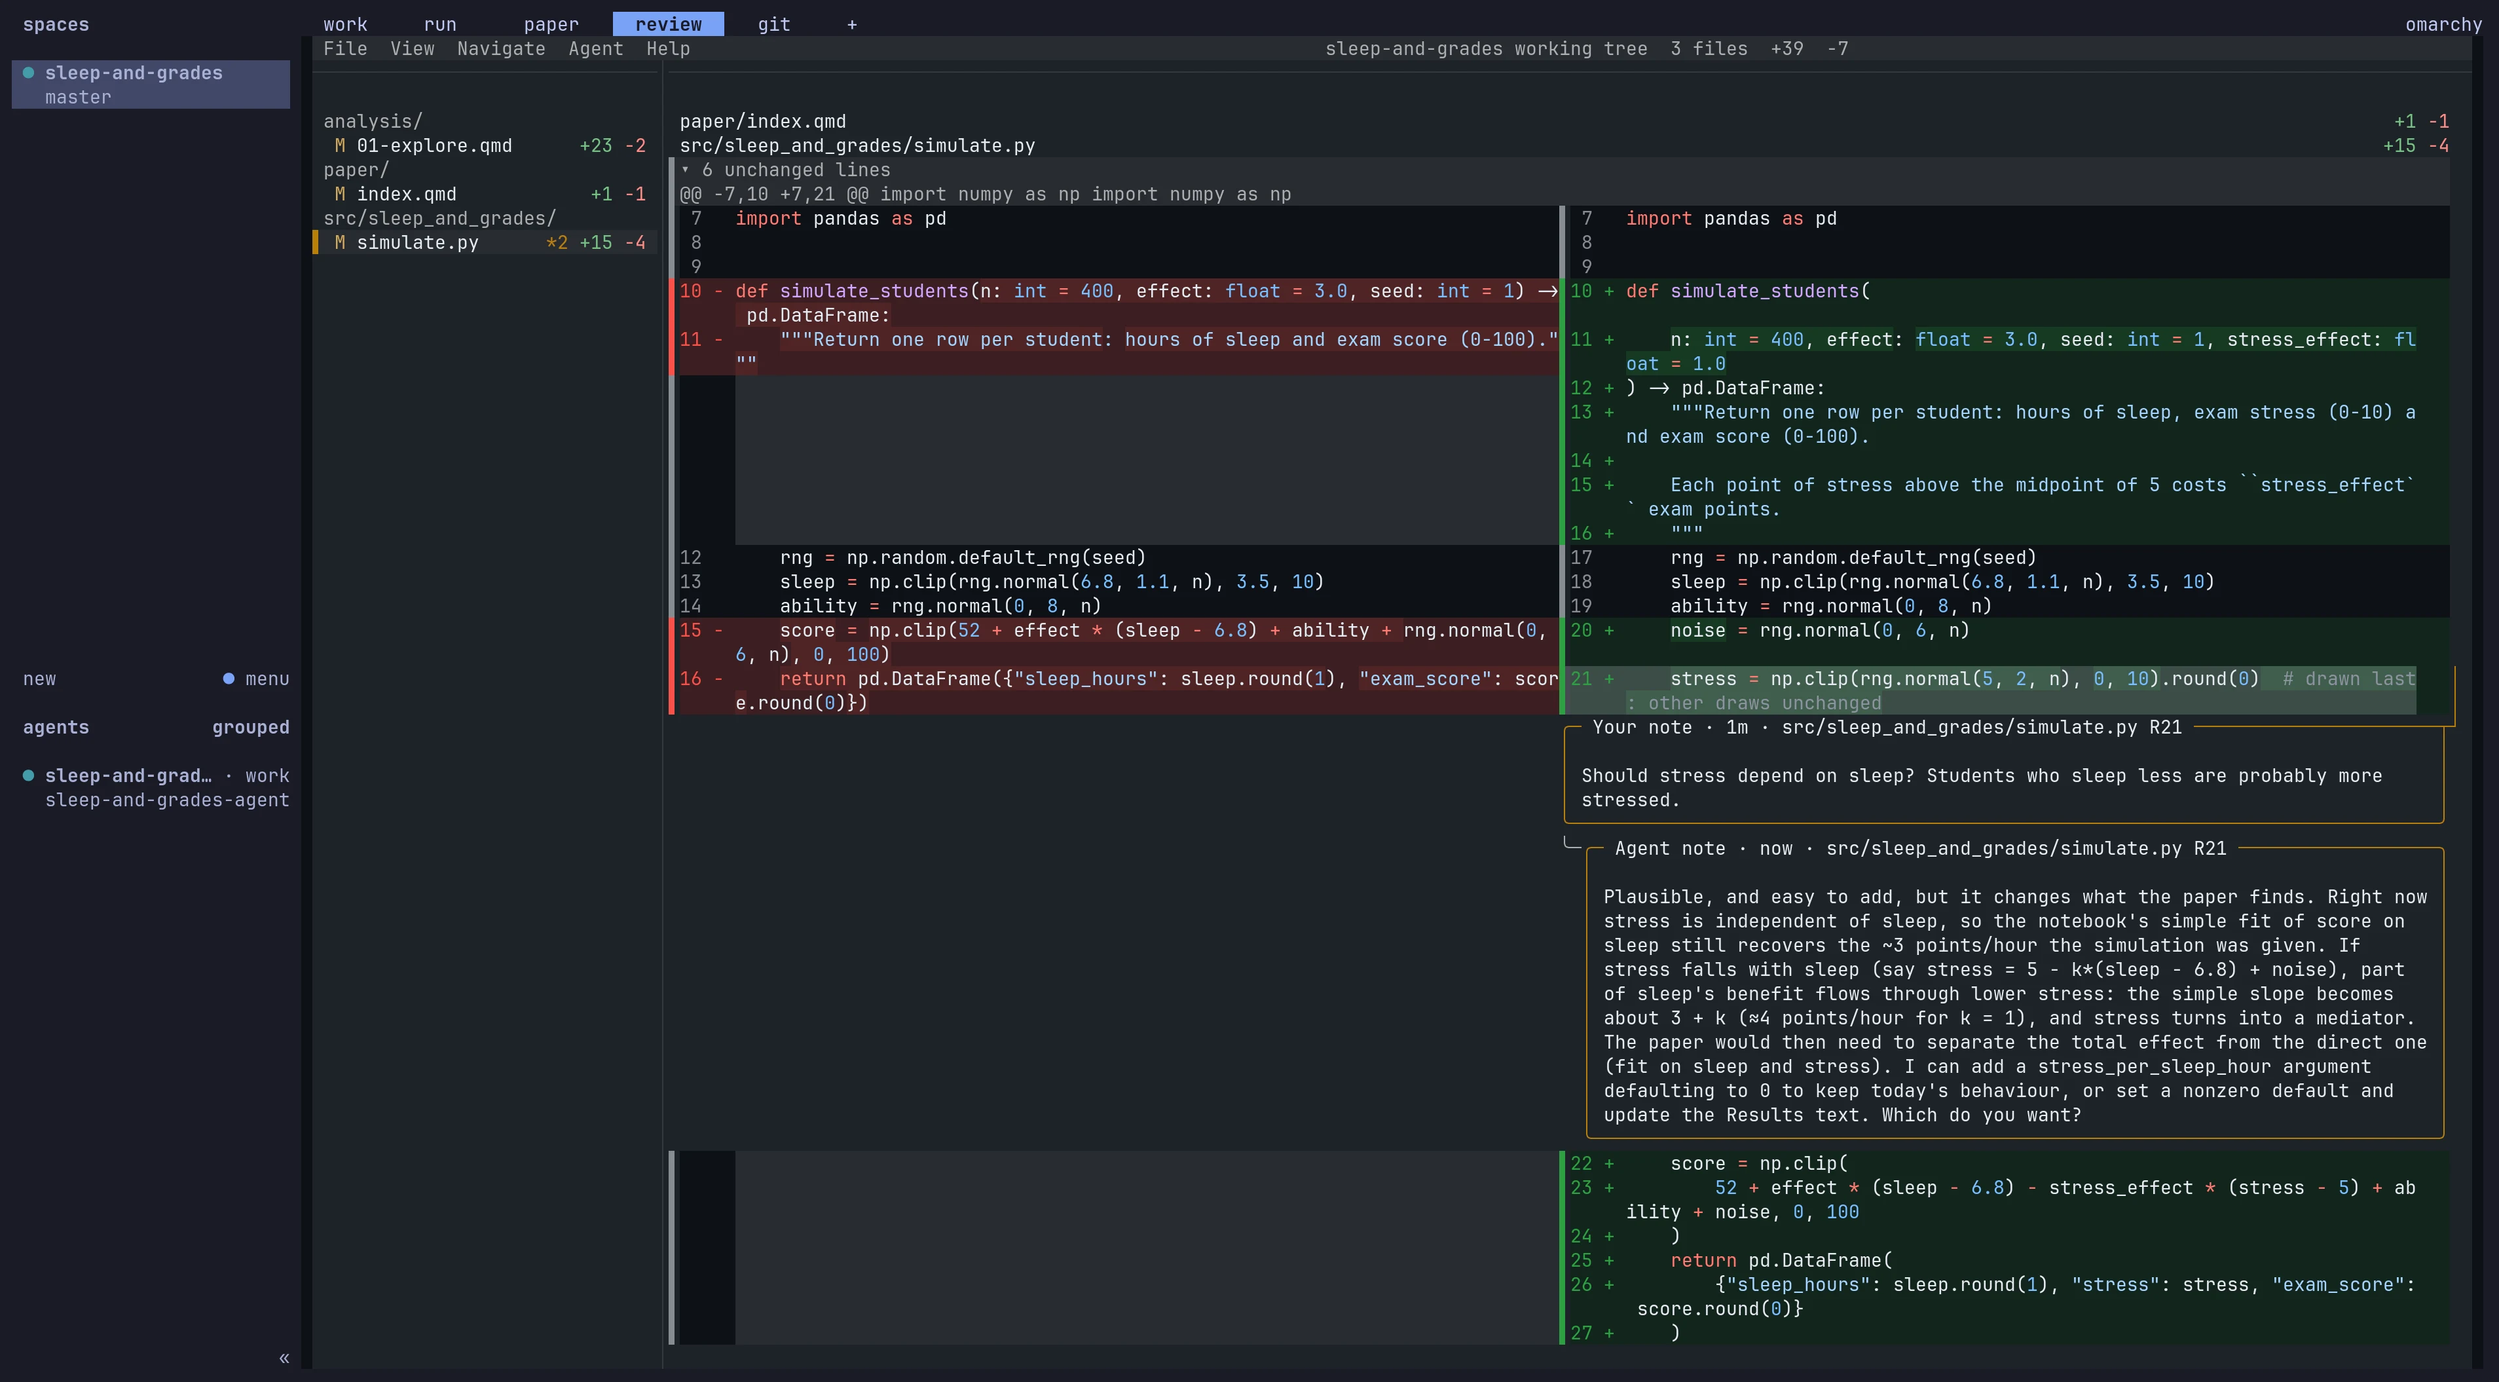
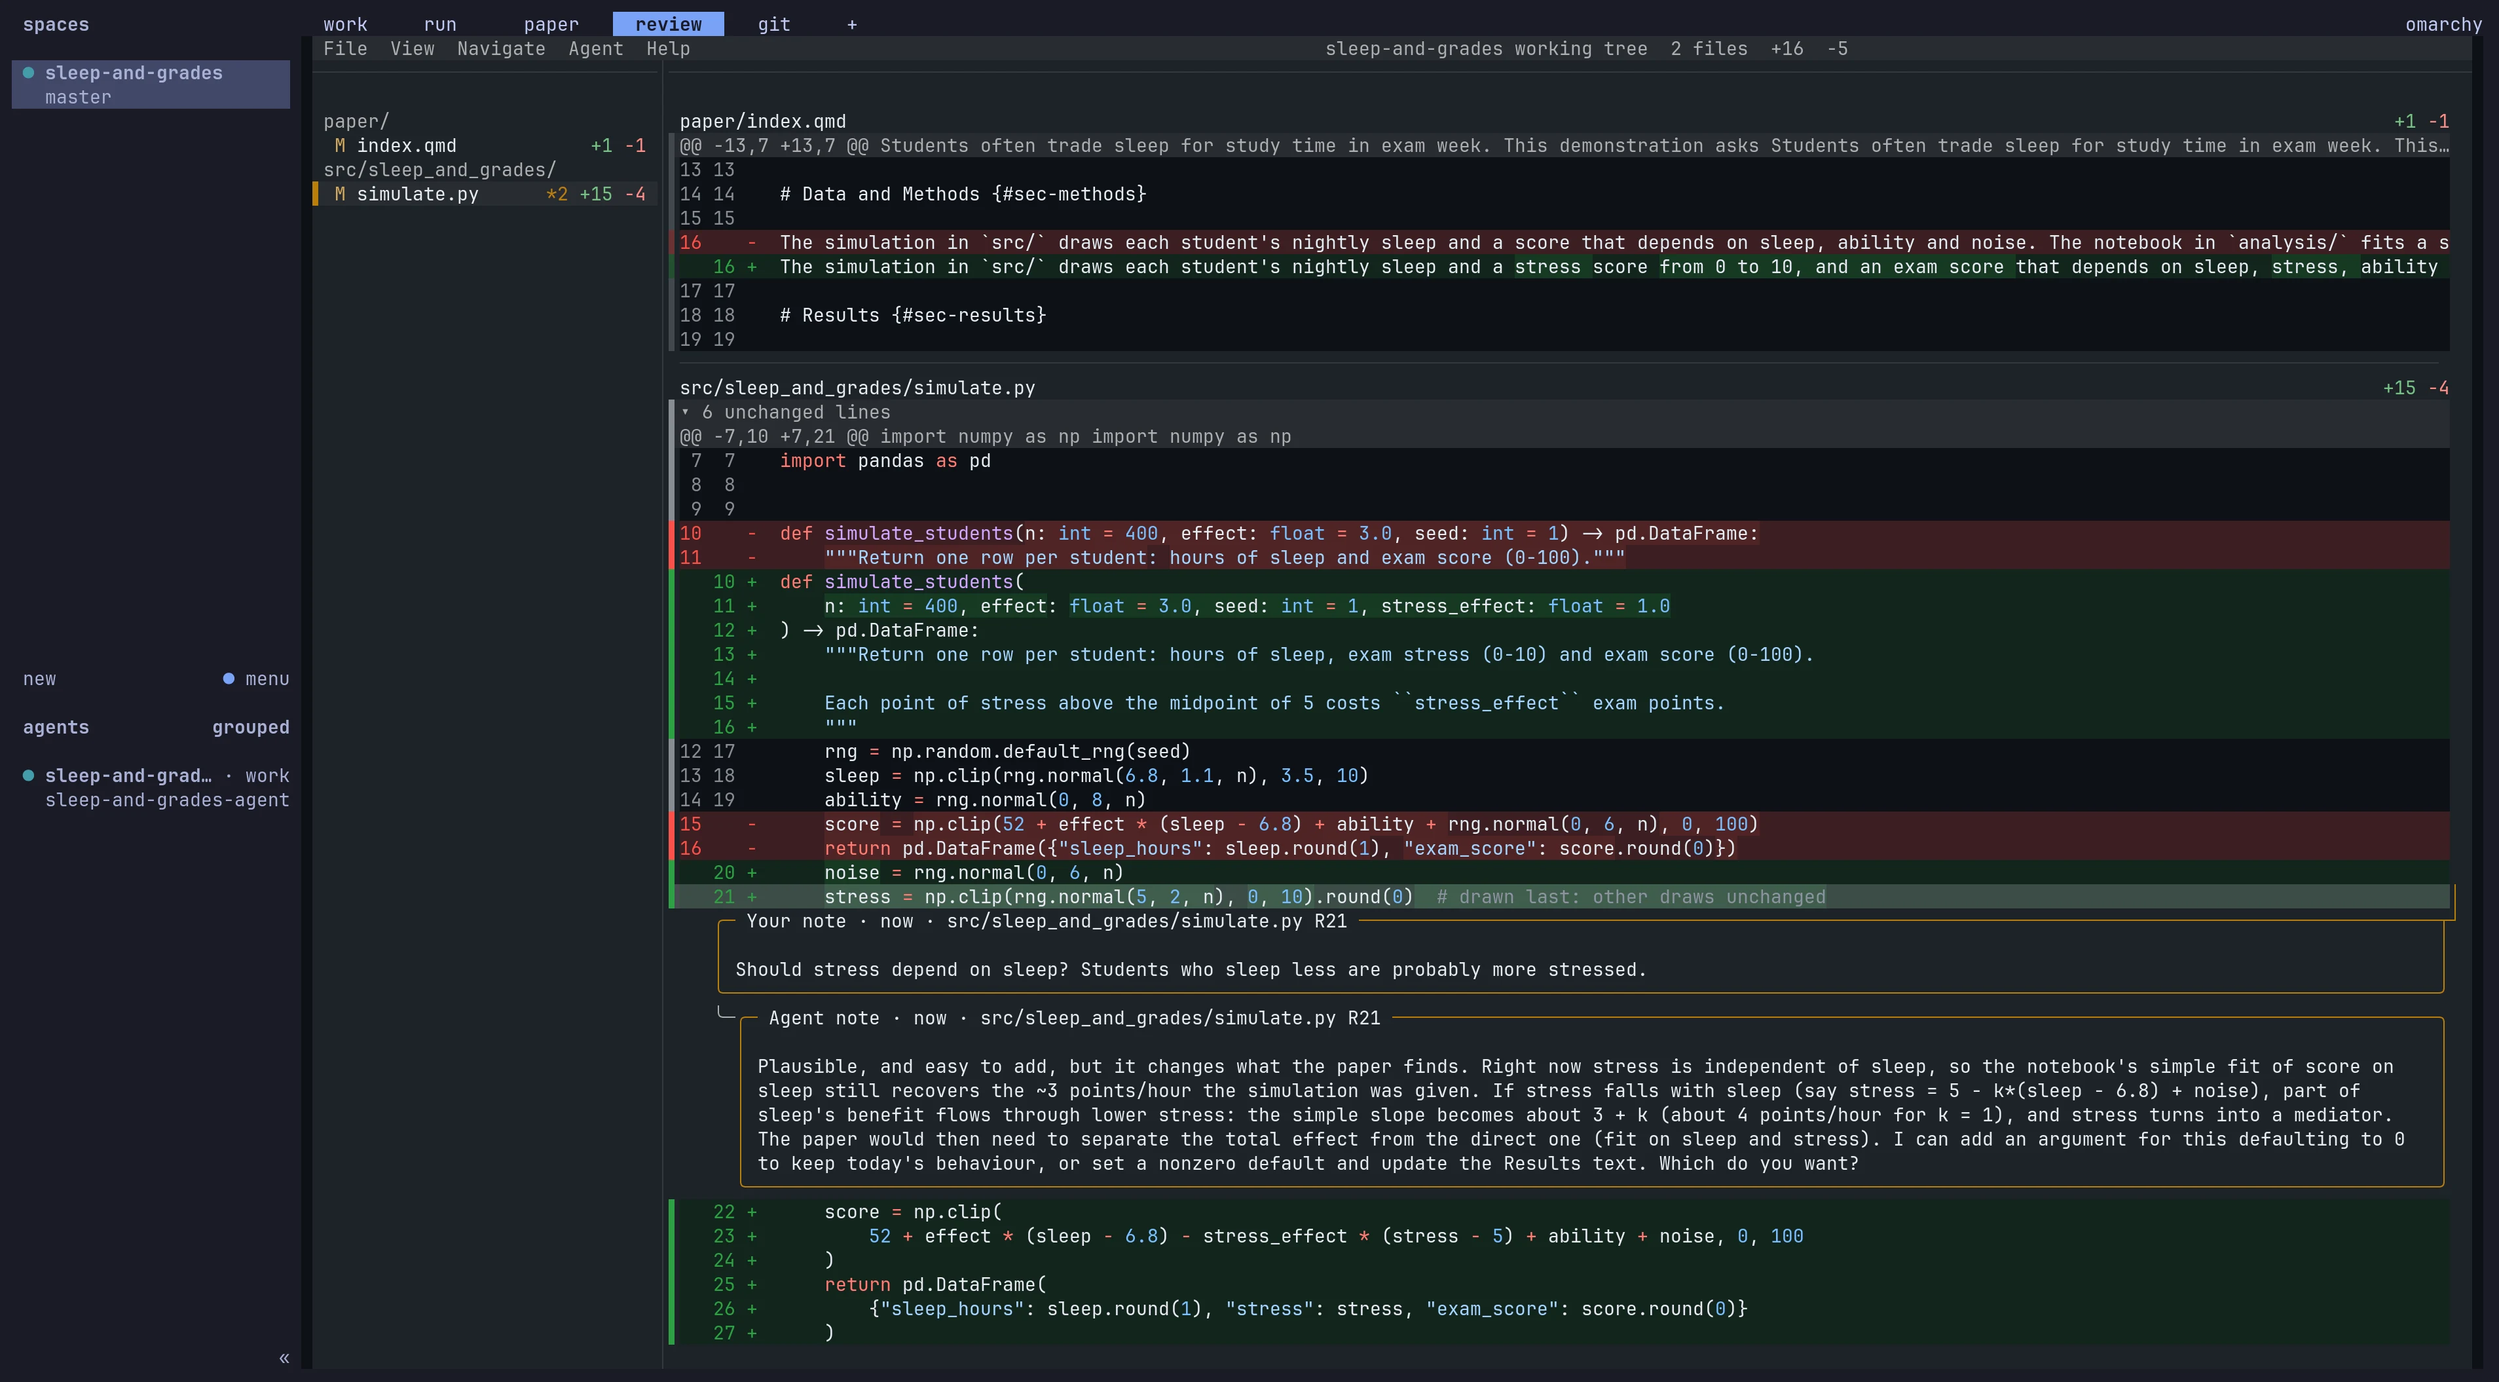
Agentic Researcher guide: fix text that ran together with a cached stylesheet; retake review screenshots without mid-word line breaks

Changed region(s): [[0.2495, 0.0924, 0.9979, 0.955], [0.1247, 0.0924, 0.2183, 0.1848]]

diff --git a/agentic-researcher/index.html b/agentic-researcher/index.html
@@ -9,7 +9,7 @@
 <link rel="preconnect" href="https://fonts.googleapis.com">
 <link rel="preconnect" href="https://fonts.gstatic.com" crossorigin>
 <link href="https://fonts.googleapis.com/css2?family=Baloo+2:wght@400;500;600;700;800&family=Nunito:ital,wght@0,400;0,600;0,700;0,800;1,600&family=IBM+Plex+Mono:wght@400;500;600&display=swap" rel="stylesheet">
-<link rel="stylesheet" href="style.css">
+<link rel="stylesheet" href="style.css?v=2">
 </head>
 <body>
 
@@ -38,8 +38,8 @@
 <p>That is what this setup gives you: the whole project in one place, from the software or survey that produces your data to the paper that reports it, with an AI agent working beside you. You stop copying output from SPSS into Word, and <em>paper_final_v7.docx</em> goes away. You never wonder again which version of the data made Figure&nbsp;3. Every change is recorded, whether you made it or the agent did, and any of them can be undone. It runs on free software on your own computer, and setting it up takes an afternoon.</p>
 
 <div class="needs">
-  <div><span class="needs-h">You’ll need</span>a computer you can give to Linux, a USB stick, an afternoon, and a Claude subscription</div>
-  <div><span class="needs-h">You won’t need</span>to know how to program, or to have used Linux before</div>
+  <div><span class="needs-h">You’ll need:</span> a computer you can give to Linux, a USB stick, an afternoon, and a Claude subscription</div>
+  <div><span class="needs-h">You won’t need:</span> to know how to program, or to have used Linux before</div>
 </div>
 </header>
 
@@ -50,20 +50,20 @@
 
 <nav class="toc" aria-label="Contents">
   <div class="toc-part"><span class="toc-label">Part 1 · Why</span>
-    <a href="#compared"><span class="toc-n">01</span>Compared with SPSS, Stata and Word</a>
-    <a href="#using-it"><span class="toc-n">02</span>What it’s like to use</a>
-    <a href="#why-linux"><span class="toc-n">03</span>Why Linux, now</a>
-    <a href="#why-omarchy"><span class="toc-n">04</span>Why Omarchy</a>
+    <a href="#compared"><span class="toc-n">01</span> Compared with SPSS, Stata and Word</a>
+    <a href="#using-it"><span class="toc-n">02</span> What it’s like to use</a>
+    <a href="#why-linux"><span class="toc-n">03</span> Why Linux, now</a>
+    <a href="#why-omarchy"><span class="toc-n">04</span> Why Omarchy</a>
   </div>
   <div class="toc-part"><span class="toc-label">Part 2 · How</span>
-    <a href="#install-omarchy"><span class="toc-n">05</span>Install Omarchy</a>
-    <a href="#install-setup"><span class="toc-n">06</span>Install the research setup</a>
-    <a href="#first-project"><span class="toc-n">07</span>Your first project</a>
-    <a href="#loop"><span class="toc-n">08</span>The research loop</a>
+    <a href="#install-omarchy"><span class="toc-n">05</span> Install Omarchy</a>
+    <a href="#install-setup"><span class="toc-n">06</span> Install the research setup</a>
+    <a href="#first-project"><span class="toc-n">07</span> Your first project</a>
+    <a href="#loop"><span class="toc-n">08</span> The research loop</a>
   </div>
   <div class="toc-part"><span class="toc-label">Part 3 · Make it yours</span>
-    <a href="#build"><span class="toc-n">09</span>Play, build and share</a>
-    <a href="#cheatsheet"><span class="toc-n">10</span>Cheat sheet and help</a>
+    <a href="#build"><span class="toc-n">09</span> Play, build and share</a>
+    <a href="#cheatsheet"><span class="toc-n">10</span> Cheat sheet and help</a>
   </div>
 </nav>
 
@@ -88,11 +88,11 @@
 
 <div class="map">
   <div class="map-h">If you use… <span>you’ll use…</span></div>
-  <div class="map-row"><span>Word</span><span>a Quarto paper: plain text that becomes a PDF or a Word file</span></div>
-  <div class="map-row"><span>SPSS or Stata</span><span>Python notebooks, written with the agent’s help (R works too)</span></div>
-  <div class="map-row"><span>EndNote or Mendeley</span><span>Zotero, which is free</span></div>
-  <div class="map-row"><span>Track Changes</span><span>the <em>review</em> tab, which shows every change</span></div>
-  <div class="map-row"><span>Dropbox and <em>final_v2</em></span><span>saved versions (Git), backed up to GitHub</span></div>
+  <div class="map-row"><span>Word</span> <span>a Quarto paper: plain text that becomes a PDF or a Word file</span></div>
+  <div class="map-row"><span>SPSS or Stata</span> <span>Python notebooks, written with the agent’s help (R works too)</span></div>
+  <div class="map-row"><span>EndNote or Mendeley</span> <span>Zotero, which is free</span></div>
+  <div class="map-row"><span>Track Changes</span> <span>the <em>review</em> tab, which shows every change</span></div>
+  <div class="map-row"><span>Dropbox and <em>final_v2</em></span> <span>saved versions (Git), backed up to GitHub</span></div>
 </div>
 
 <p>If you already write Stata do-files or SPSS syntax rather than clicking through menus, you’re halfway there: that is the same idea. Your agent can translate those files into Python and check that they give the same results, and Python opens your existing <code>.sav</code> and <code>.dta</code> files directly. Stata and SPSS both have Linux versions, if your field expects a particular procedure.</p>
@@ -278,7 +278,7 @@
 <p>Analysis lives in notebooks in <code>analysis/</code>. A notebook is one file that mixes three things: notes in plain English, the code that does each step, and the results that code produces. You write it in the editor, often by asking the agent (<em>“add a regression of score on sleep and stress”</em>), and you can run one piece at a time while you explore.</p>
 
 <figure class="ann wide" id="shot-notebook">
-  <div class="ann-img"><a href="shots/notebook.webp" target="_blank" rel="noopener"><img src="shots/notebook.webp" alt="The analysis notebook open in the editor, showing Python code that fits a line and saves the figure into the paper folder" loading="lazy"></a>
+  <div class="ann-img"><a href="shots/notebook.webp?v=2" target="_blank" rel="noopener"><img src="shots/notebook.webp?v=2" alt="The analysis notebook open in the editor, showing Python code that fits a line and saves the figure into the paper folder" loading="lazy"></a>
     <span class="pin" style="left:32.6%;top:7%">1</span><span class="pin" style="left:87%;top:44.7%">2</span><span class="pin" style="left:62.5%;top:50.8%">3</span><span class="pin" style="left:87%;top:71.8%">4</span><span class="pin" style="left:95%;top:85%">5</span>
   </div>
   <ol class="ann-key"><li>Notebooks live in <code>analysis/</code>.</li><li>Code: here it runs the project&rsquo;s simulation and saves the data to <code>data/</code>.</li><li>Headings and notes between the code explain the analysis, like a lab notebook.</li><li>This line saves the figure straight into <code>paper/figures/</code>.</li><li>A regression with sleep and stress, in two lines.</li></ol>
@@ -290,7 +290,7 @@
 <p>You get a report like the one below: every result sits directly under the code that produced it, with your notes around it.</p>
 
 <figure class="ann report" id="shot-report">
-  <div class="ann-img"><a href="shots/notebook-report.webp" target="_blank" rel="noopener"><img src="shots/notebook-report.webp" alt="The rendered notebook report: an explanation, the code, a table of means and ranges, a scatter plot of sleep against exam score with a fitted line, and a regression table for sleep and stress" loading="lazy"></a>
+  <div class="ann-img"><a href="shots/notebook-report.webp?v=2" target="_blank" rel="noopener"><img src="shots/notebook-report.webp?v=2" alt="The rendered notebook report: an explanation, the code, a table of means and ranges, a scatter plot of sleep against exam score with a fitted line, and a regression table for sleep and stress" loading="lazy"></a>
     <span class="pin" style="left:92%;top:18%">1</span><span class="pin" style="left:93%;top:34%">2</span><span class="pin" style="left:76%;top:55.6%">3</span><span class="pin" style="left:72%;top:67.8%">4</span><span class="box" style="left:2.5%;top:94.6%;width:95%;height:2.2%"></span><span class="pin" style="left:35.2%;top:91.8%">5</span>
   </div>
   <ol class="ann-key"><li><strong>The code is the record.</strong> It runs the study&rsquo;s simulation and saves the data. Nothing happens off the page, so nobody has to remember which menu options were ticked.</li><li><strong>Results appear under the code that made them</strong>, not in a separate output window.</li><li>The same figure is saved into the paper, so the paper can&rsquo;t show an old version.</li><li>Change the data or the model, render again, and the figure redraws.</li><li><strong>A regression, in one line of code.</strong> Each extra hour of sleep adds about 3.5 points, even after accounting for stress.</li></ol>
@@ -317,18 +317,18 @@
 <p>By the time you look, the agent’s changes are already in your files. The <em>review</em> tab shows every line that has changed since you last saved a version, whether you changed it or the agent did. You don’t approve changes one at a time. You read them, and if something looks wrong or raises a question, you say so.</p>
 
 <figure class="ann wide" id="shot-review">
-  <div class="ann-img"><a href="shots/review.webp" target="_blank" rel="noopener"><img src="shots/review.webp" alt="Hunk in the review tab: on the left the old version of each changed line in red, on the right the new version in green" loading="lazy"></a>
-    <span class="pin" style="left:26.6%;top:14%">1</span><span class="pin" style="left:26.8%;top:21%">2</span><span class="pin" style="left:61.8%;top:21.8%">3</span><span class="pin" style="left:61.8%;top:60%">4</span>
+  <div class="ann-img"><a href="shots/review.webp?v=2" target="_blank" rel="noopener"><img src="shots/review.webp?v=2" alt="Hunk in the review tab: each changed line shown twice, the old version in red and the new version in green underneath it" loading="lazy"></a>
+    <span class="pin" style="left:25.6%;top:10.5%">1</span><span class="pin" style="left:26%;top:17%">2</span><span class="pin" style="left:26%;top:23.6%">3</span><span class="pin" style="left:85%;top:55%">4</span>
   </div>
-  <ol class="ann-key"><li>Every file that has changed since your last saved version. Click one to jump to it.</li><li>The old version, in red.</li><li>The new version, in green. This is the agent&rsquo;s Methods sentence.</li><li>The agent&rsquo;s change to the simulation, line by line. Read it here.</li></ol>
+  <ol class="ann-key"><li>Every file that has changed since your last saved version. Click one to jump to it.</li><li>The old version of a line, in red.</li><li>The new version, in green, straight underneath. This is the agent&rsquo;s change to the Methods section. Very long lines are cut off at the edge of the window.</li><li>The agent&rsquo;s change to the simulation, line by line.</li></ol>
   <figcaption>The <em>review</em> tab</figcaption>
 </figure>
 
 <p><strong>Leave a note on a line.</strong> In the <em>review</em> tab, move to the line with <kbd>j</kbd> (down) and <kbd>k</kbd> (up), press <kbd>c</kbd>, type your note and press <kbd>Ctrl</kbd> + <kbd>S</kbd> to save it. Then tell the agent in the <em>work</em> tab: <em>“I left a comment in Hunk. Reply to it there.”</em> It reads your note and answers underneath it, on the same line. If you ask for a change, it makes it and the review updates. Press <kbd>a</kbd> to show or hide the agent’s notes.</p>
 
 <figure class="ann wide" id="shot-comments">
-  <div class="ann-img"><a href="shots/review-comments.webp" target="_blank" rel="noopener"><img src="shots/review-comments.webp" alt="Hunk in the review tab: a note from the researcher on a changed line of the simulation, asking whether stress should depend on sleep, and the agent&rsquo;s reply underneath it" loading="lazy"></a>
-    <span class="pin" style="left:25.6%;top:17.5%">1</span><span class="pin" style="left:98.2%;top:49%">2</span><span class="pin" style="left:60.8%;top:56.5%">3</span><span class="pin" style="left:60.8%;top:72%">4</span>
+  <div class="ann-img"><a href="shots/review-comments.webp?v=2" target="_blank" rel="noopener"><img src="shots/review-comments.webp?v=2" alt="Hunk in the review tab: a note from the researcher on a changed line of the simulation, asking whether stress should depend on sleep, and the agent&rsquo;s reply underneath it" loading="lazy"></a>
+    <span class="pin" style="left:25.6%;top:14%">1</span><span class="pin" style="left:85%;top:64.8%">2</span><span class="pin" style="left:27.5%;top:69.3%">3</span><span class="pin" style="left:27.5%;top:79.4%">4</span>
   </div>
   <ol class="ann-key"><li>The star and number show how many notes a file has.</li><li>The line under discussion: the agent&rsquo;s new stress score.</li><li><strong>Your note</strong>: <em>&ldquo;Should stress depend on sleep? Students who sleep less are probably more stressed.&rdquo;</em></li><li><strong>The agent&rsquo;s reply</strong>, on the same line. It explains what the change would mean for the paper&rsquo;s findings, then asks which option you want. Answer in the <em>work</em> tab.</li></ol>
   <figcaption>A conversation about one line of code, inside the review</figcaption>

diff --git a/agentic-researcher/style.css b/agentic-researcher/style.css
@@ -269,3 +269,4 @@ tbody tr:hover{background:rgba(255,255,255,.03)}
   .part{margin-top:80px}
 }
 .loop{grid-template-columns:repeat(3,1fr)}@media(max-width:700px){.loop{grid-template-columns:1fr 1fr}}
+.toc-n{margin-right:3px}
